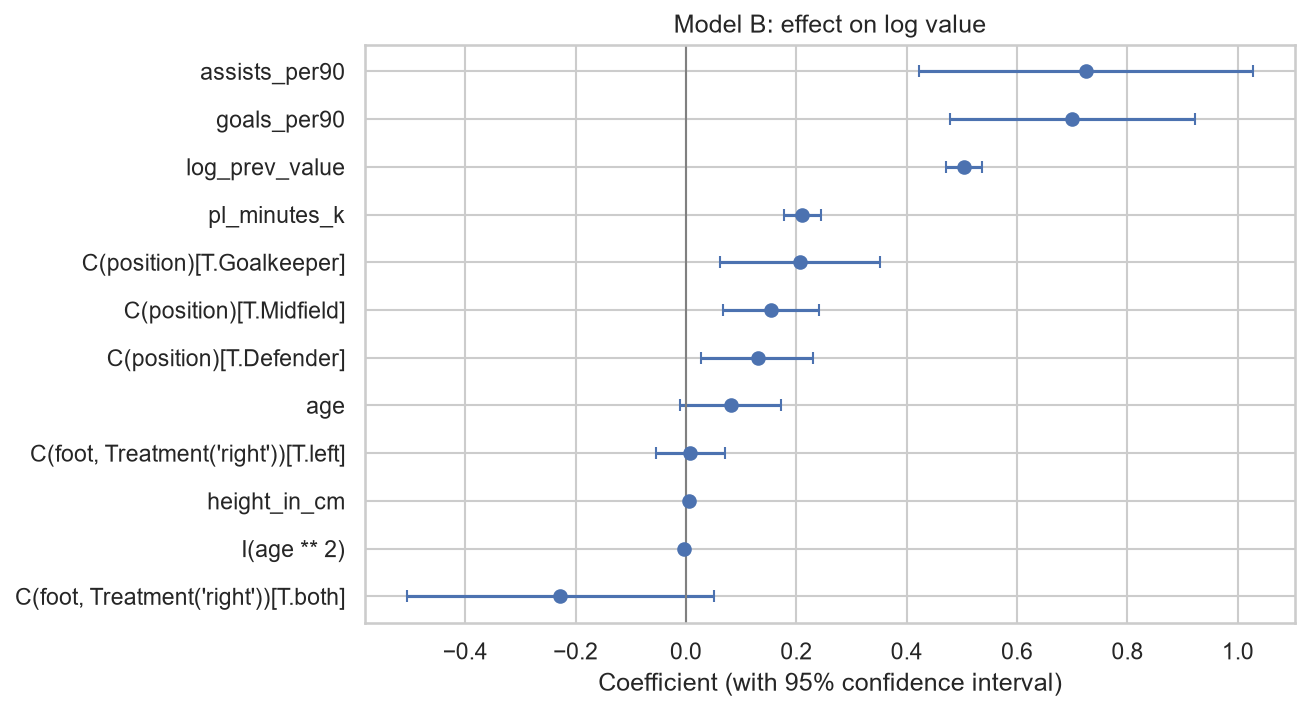
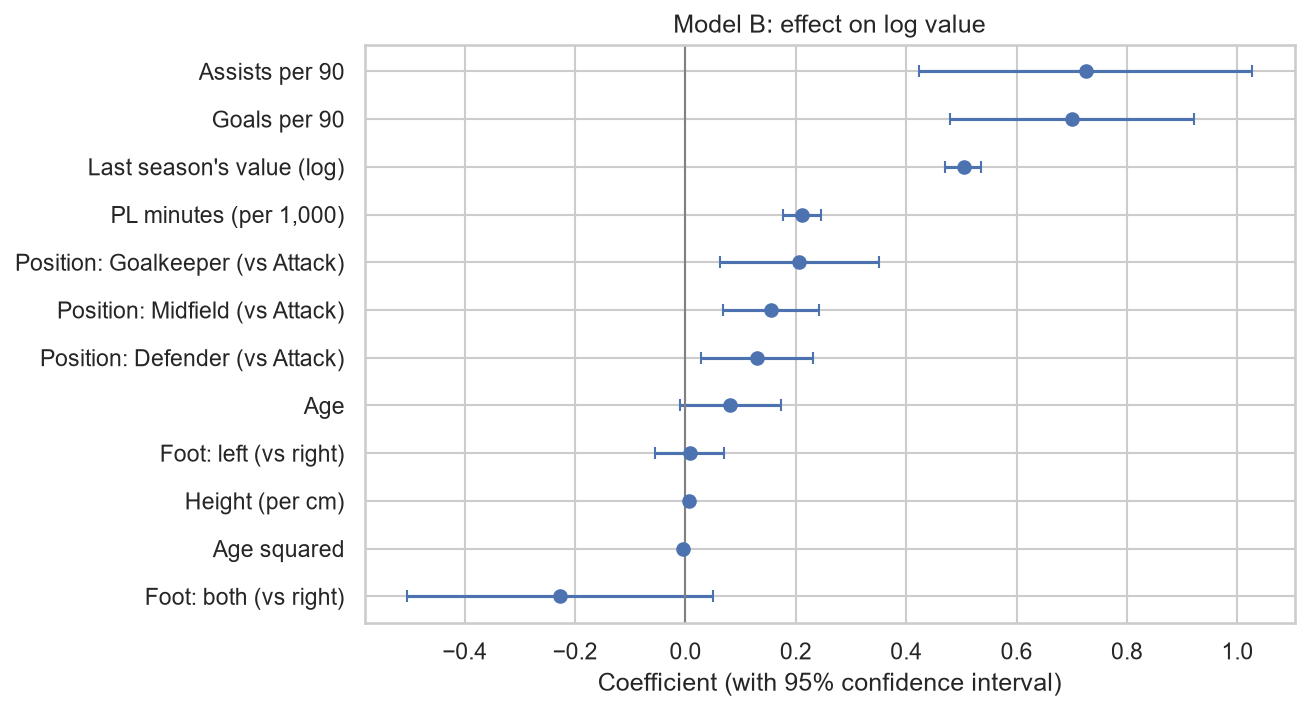
use readable labels in the coefficient chart

diff --git a/src/modeling.py b/src/modeling.py
@@ -53,3 +53,25 @@ def evaluate(pred_log: pd.Series, actual_log: pd.Series) -> dict:
 def fit_and_score(formula: str, train: pd.DataFrame, test: pd.DataFrame):
     model = smf.ols(formula, data=train).fit()
     return model, evaluate(model.predict(test), test["log_value"])
+
+
+def readable_names(names) -> list:
+    """Turn statsmodels term names like "C(position)[T.Goalkeeper]" into labels for charts."""
+    fixed = {
+        "log_prev_value": "Last season's value (log)",
+        "pl_minutes_k": "PL minutes (per 1,000)",
+        "goals_per90": "Goals per 90",
+        "assists_per90": "Assists per 90",
+        "height_in_cm": "Height (per cm)",
+        "age": "Age",
+        "I(age ** 2)": "Age squared",
+    }
+    out = []
+    for n in names:
+        if n.startswith("C(position)"):
+            out.append(f"Position: {n.split('T.')[1].rstrip(']')} (vs Attack)")
+        elif n.startswith("C(foot"):
+            out.append(f"Foot: {n.split('T.')[1].rstrip(']')} (vs right)")
+        else:
+            out.append(fixed.get(n, n))
+    return out
